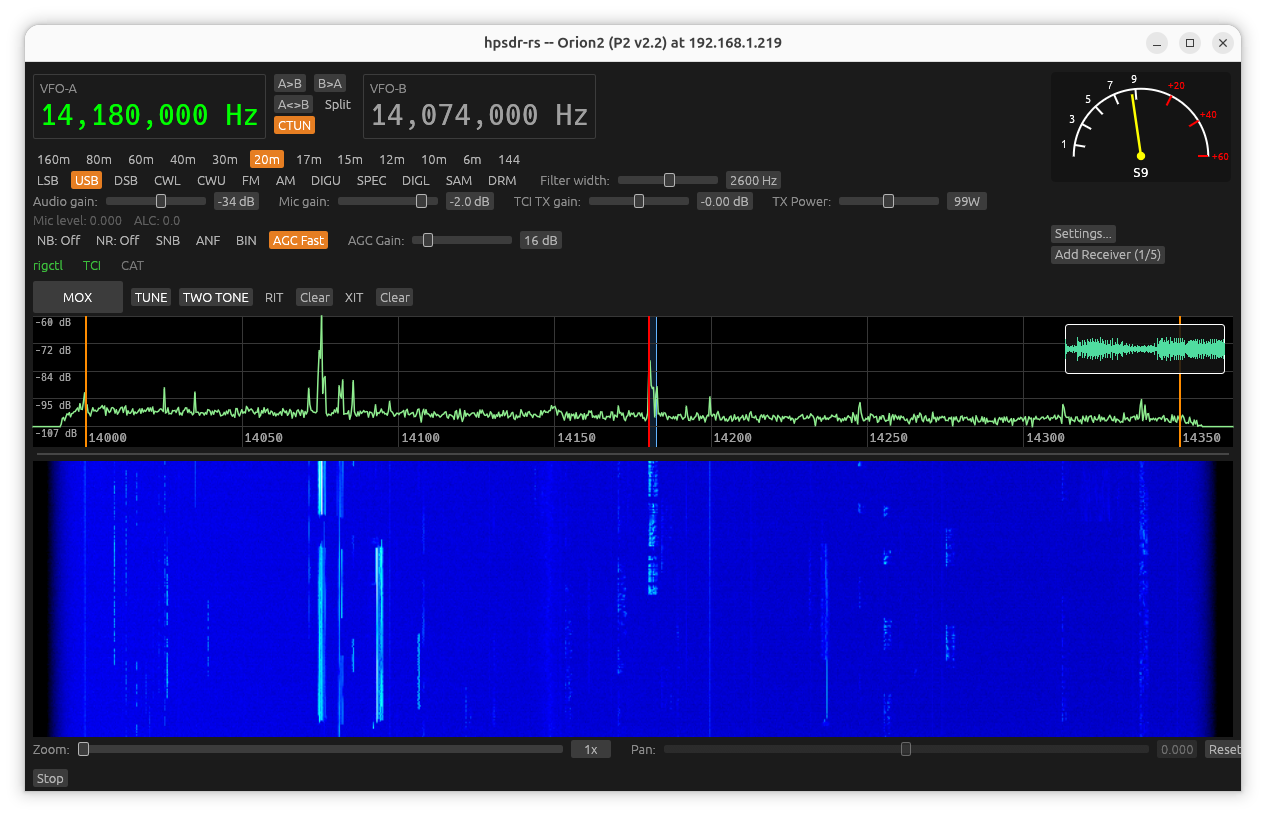
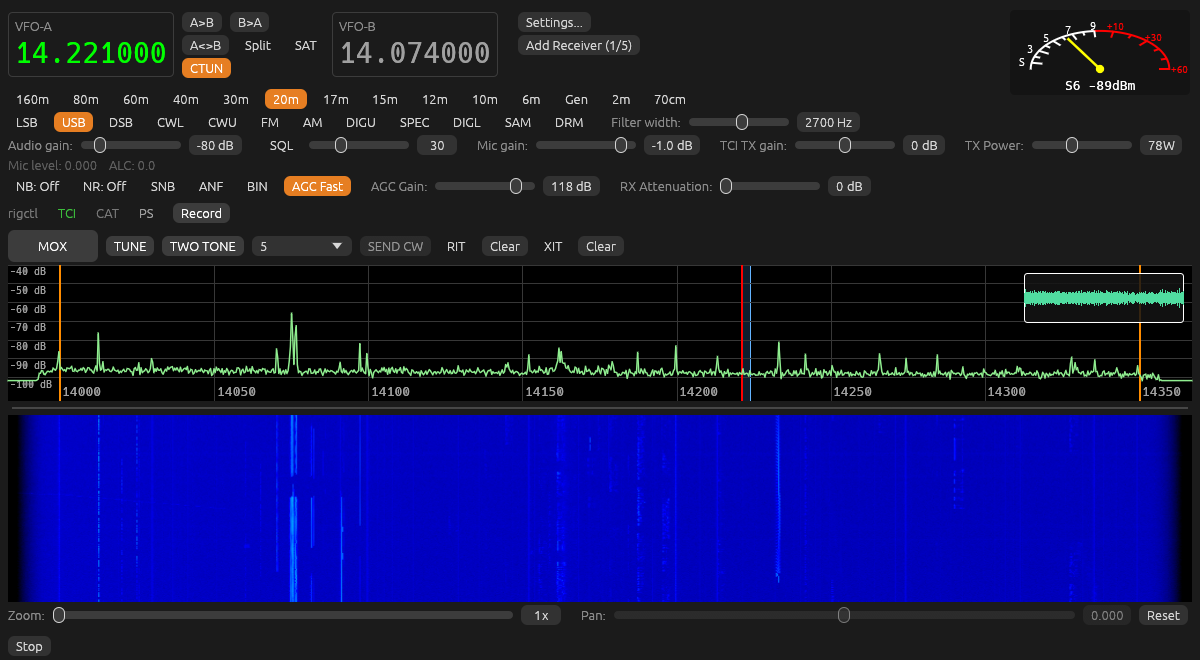
README: use the current main window overview screenshot
images/screenshot.png now matches docs/manual's 02-main-window-overview
(the AppStream metainfo links the same file); caption updated.

diff --git a/README.md b/README.md
@@ -8,7 +8,7 @@ A Rust/egui desktop client for [openHPSDR](https://openhpsdr.org/) Protocol 1 an
 
 > **Status: early / actively in development.** RX has seen the most real-world testing. TX works and has been used for real QSOs, but parts of the TX signal path are still noted in the source as unverified against the official protocol spec on untested hardware. **Always bench-test into a dummy load at reduced drive before transmitting into a real antenna**, especially after pulling a new build.
 
-![hpsdr-rs main window and a second independent receiver, showing the spectrum/waterfall display, S-meter, and TX controls](images/screenshot.png)
+![hpsdr-rs main window, showing the spectrum/waterfall display, S-meter, and TX controls](images/screenshot.png)
 
 ## Origins
 
